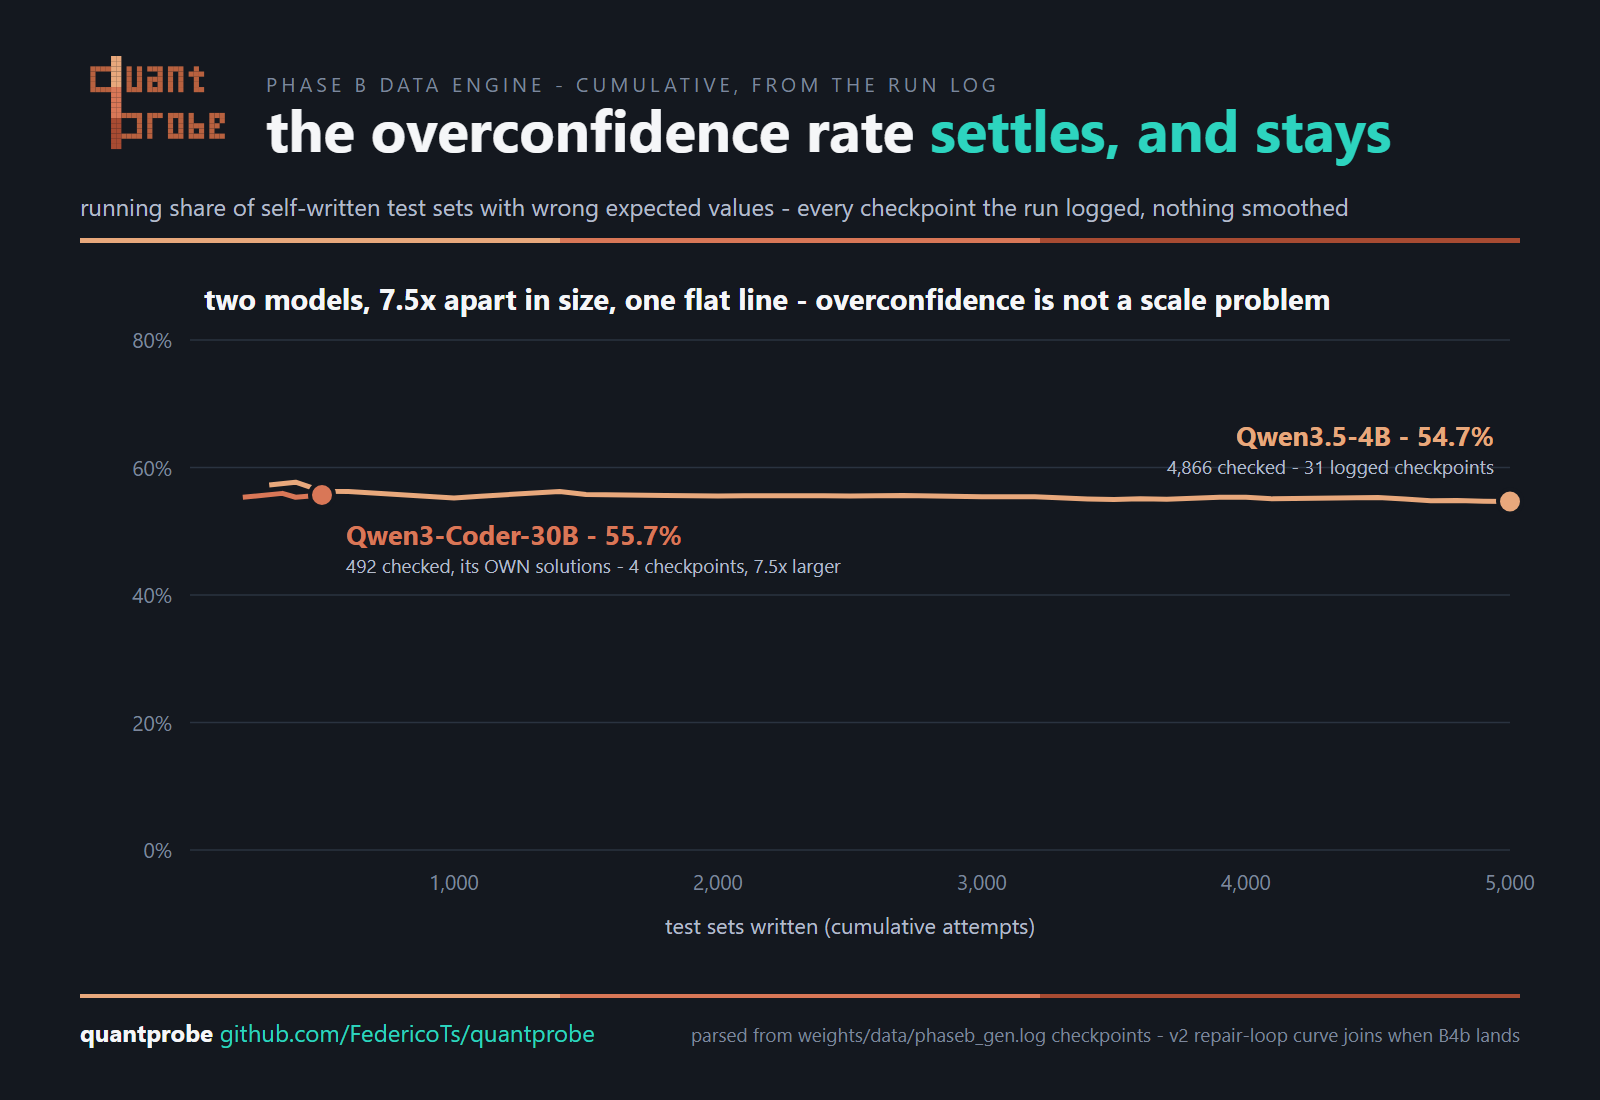
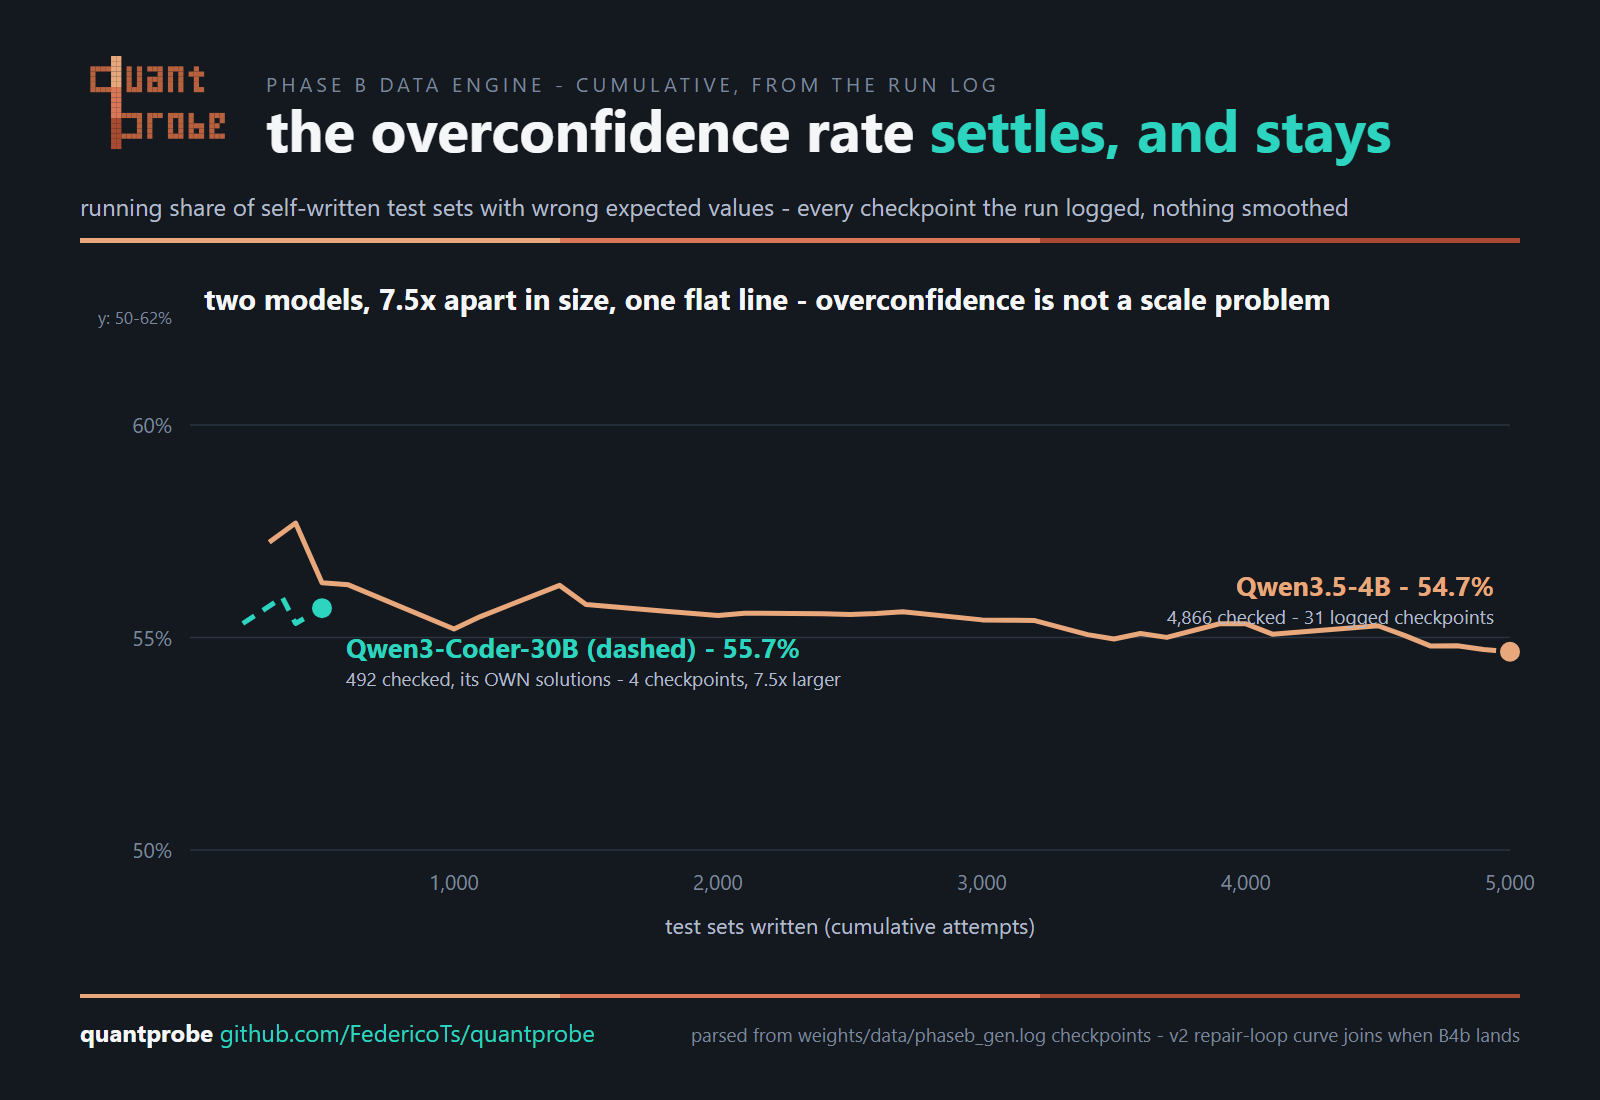
Evolution chart v2: the axis serves the message - zoomed to the data band, truncation declared, second visual cue on the short curve
A 0-100 axis flattened a 54-58% band into a featureless line; the
data-derived window (50-62, declared on the chart) reveals the settling
wobble, the convergence, and the late gentle drift - the actual story.
The 30B's stub curve goes teal AND dashed (never color alone), and the
overlong subtitle that clipped at the frame edge is trimmed. Axis rule
adopted into the standard process: zero-based only when absolute
magnitude IS the message; trend charts zoom to data with the window
printed on the chart - truncation shown is honesty, hidden is spin.

diff --git a/weights/make_overconf_evolution.py b/weights/make_overconf_evolution.py
@@ -61,31 +61,37 @@ def main():
     s = [brand.svg_open(W, H),
          brand.header(W, "PHASE B DATA ENGINE - CUMULATIVE, FROM THE RUN LOG",
                       f'the overconfidence rate <tspan fill="{TEAL}">settles, and stays</tspan>',
-                      "running share of self-written test sets with wrong expected values - "
-                      "every checkpoint the run logged, nothing smoothed")]
+                      "running share of self-written test sets with wrong expected values - every "
+                      "checkpoint the run logged, nothing smoothed")]
     px0, px1, py0, py1 = 190, W - 90, H - 250, 340
     xmax = 5000.0
-    ymin, ymax = 0.0, 80.0
+    # axis window FROM the data (standard process, 2026-08-06): a 0-100 axis flattens a
+    # 54-58% band into a line and hides the settling structure. Zoomed, and DECLARED on the
+    # chart - truncation shown is honesty, truncation hidden is spin.
+    allr = [r for _, r in f1 + f2]
+    ymin = max(0, int(min(allr)) - 4)
+    ymax = min(100, int(max(allr)) + 5)
     def X(n):
         return px0 + (px1 - px0) * n / xmax
     def Y(r):
         return py0 - (py0 - py1) * (r - ymin) / (ymax - ymin)
-    for gy in range(0, 81, 20):
+    for gy in range(ymin + (5 - ymin % 5) % 5, int(ymax) + 1, 5):
         s.append(f'<line x1="{px0}" y1="{Y(gy)}" x2="{px1}" y2="{Y(gy)}" stroke="{GRID}" stroke-width="1.5"/>'
                  f'<text x="{px0-18}" y="{Y(gy)+8}" text-anchor="end" fill="{MUT}" font-size="21">{gy}%</text>')
     for gx in (1000, 2000, 3000, 4000, 5000):
         s.append(f'<text x="{X(gx)}" y="{py0+40}" text-anchor="middle" fill="{MUT}" font-size="21">{gx:,}</text>')
     s.append(f'<text x="{(px0+px1)/2}" y="{py0+84}" text-anchor="middle" fill="{SUB}" font-size="22">test sets written (cumulative attempts)</text>')
-    for pts, col, lw in ((f1, brand.VRAM, 5), (f2, brand.RAM, 5)):
+    s.append(f'<text x="{px0-18}" y="{py1-16}" text-anchor="end" fill="{MUT}" font-size="17">y: {ymin}-{ymax}%</text>')
+    for pts, col, lw, dash in ((f1, brand.VRAM, 5, ""), (f2, TEAL, 5, ' stroke-dasharray="14,10"')):
         poly = " ".join(f"{X(n)},{Y(r)}" for n, r in pts)
-        s.append(f'<polyline points="{poly}" fill="none" stroke="{col}" stroke-width="{lw}" stroke-linejoin="round"/>')
+        s.append(f'<polyline points="{poly}" fill="none" stroke="{col}" stroke-width="{lw}" stroke-linejoin="round"{dash}/>')
         n, r = pts[-1]
         s.append(f'<circle cx="{X(n)}" cy="{Y(r)}" r="12" fill="{col}" stroke="{BG}" stroke-width="4"/>')
     n1, r1 = f1[-1]
     n2, r2 = f2[-1]
     s.append(f'<text x="{X(n1)-16}" y="{Y(r1)-56}" text-anchor="end" fill="{brand.VRAM}" font-size="27" font-weight="bold">Qwen3.5-4B - {r1:.1f}%</text>')
     s.append(f'<text x="{X(n1)-16}" y="{Y(r1)-28}" text-anchor="end" fill="{SUB}" font-size="19">4,866 checked - 31 logged checkpoints</text>')
-    s.append(f'<text x="{X(n2)+24}" y="{Y(r2)+50}" fill="{brand.RAM}" font-size="27" font-weight="bold">Qwen3-Coder-30B - {r2:.1f}%</text>')
+    s.append(f'<text x="{X(n2)+24}" y="{Y(r2)+50}" fill="{TEAL}" font-size="27" font-weight="bold">Qwen3-Coder-30B (dashed) - {r2:.1f}%</text>')
     s.append(f'<text x="{X(n2)+24}" y="{Y(r2)+78}" fill="{SUB}" font-size="19">492 checked, its OWN solutions - 4 checkpoints, 7.5x larger</text>')
     s.append(f'<text x="{px0+14}" y="{py1-30}" fill="{INK}" font-size="29" font-weight="bold">two models, 7.5x apart in size, one flat line - overconfidence is not a scale problem</text>')
     s += [brand.footer(W, H, "parsed from weights/data/phaseb_gen.log checkpoints - v2 repair-loop curve joins when B4b lands"),
